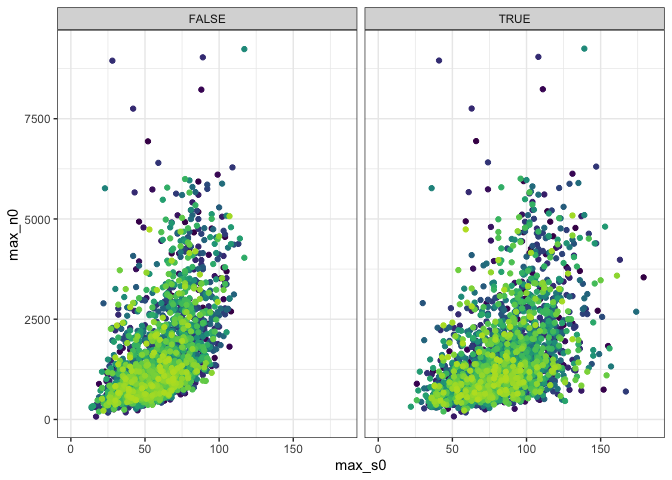
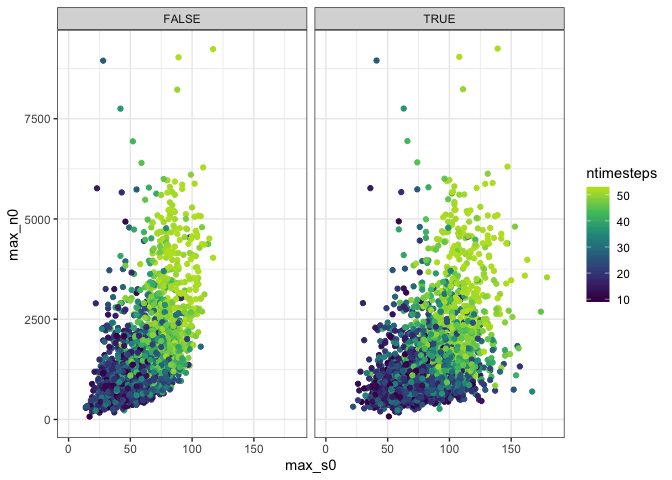
a little narrative

diff --git a/analysis/reports/statevars.md b/analysis/reports/statevars.md
@@ -8,31 +8,34 @@ Maxima
 sv_maxima <- all_sv %>%
   group_by(site, singletons) %>%
   summarize(max_s0 = max(s0),
-            max_n0 = max(n0)) %>%
+            max_n0 = max(n0),
+            ntimesteps = length(unique(timestep))) %>%
   ungroup()
 
-maxima_plot <- ggplot(data = sv_maxima, aes(x = max_s0, y = max_n0, color = site)) + 
+maxima_plot <- ggplot(data = sv_maxima, aes(x = max_s0, y = max_n0, color = ntimesteps)) + 
   geom_point() +
   theme_bw() + 
   xlim(0, max(all_sv$s0) + 5) +
   ylim(0, max(all_sv$n0) + 5) +
-  scale_color_viridis_d(end =.9) +
-  facet_wrap(vars(singletons)) +
-  theme(legend.position = "none")
+  scale_color_viridis_c(end =.9) +
+  facet_wrap(vars(singletons))
   
 maxima_plot
 ```
 
 ![](statevars_files/figure-markdown_github/plot%20maxima-1.png)
 
-``` r
-print(max(sv_maxima$max_s0))
-```
+The maximum statevars are `s0 =` 179; `n0 =` 9248. There are a total of 2587 sites (route-region combinations).
 
-    ## [1] 179
+I've made a p-table for these statevars by subsetting the `masterp_tall.Rds` from `diazrenata/scadsanalysis`. It'd probably take a day or so to sample from scratch.
 
 ``` r
-print(max(sv_maxima$max_n0))
+timesteps_hist <- ggplot(data = filter(sv_maxima, !singletons), aes(x = ntimesteps)) +
+  geom_histogram(binwidth = 3) +
+  theme_bw()  +
+  ggtitle("Timesteps")
+
+timesteps_hist
 ```
 
-    ## [1] 9248
+![](statevars_files/figure-markdown_github/ntimesteps-1.png)
